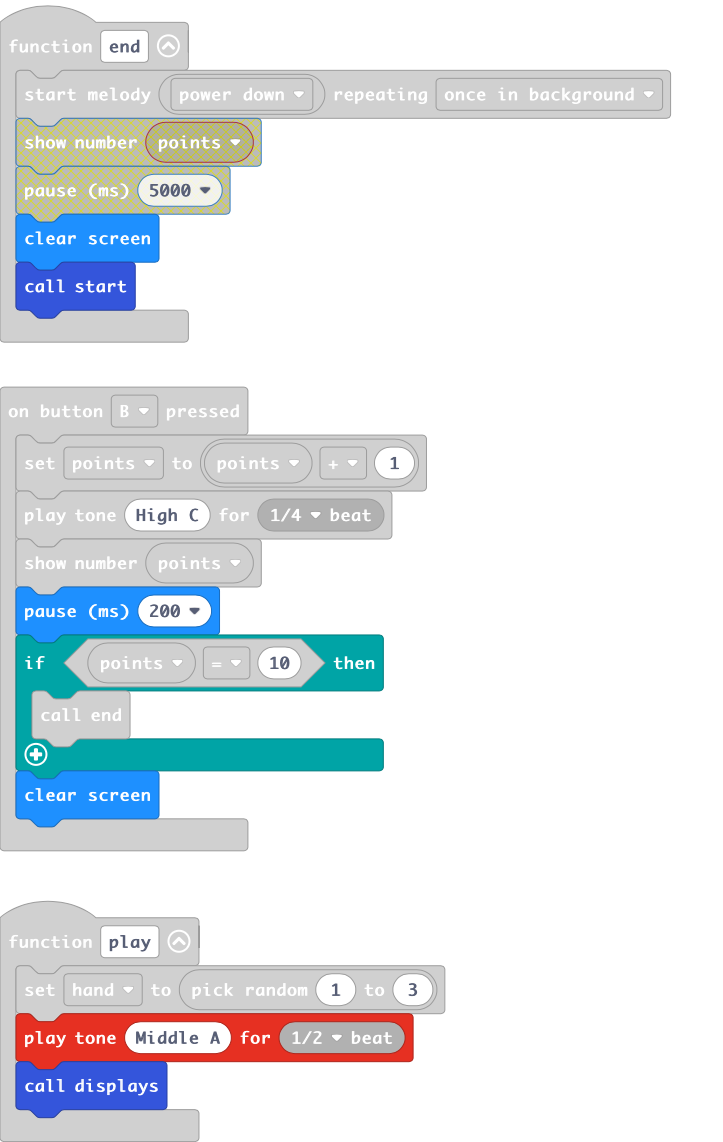
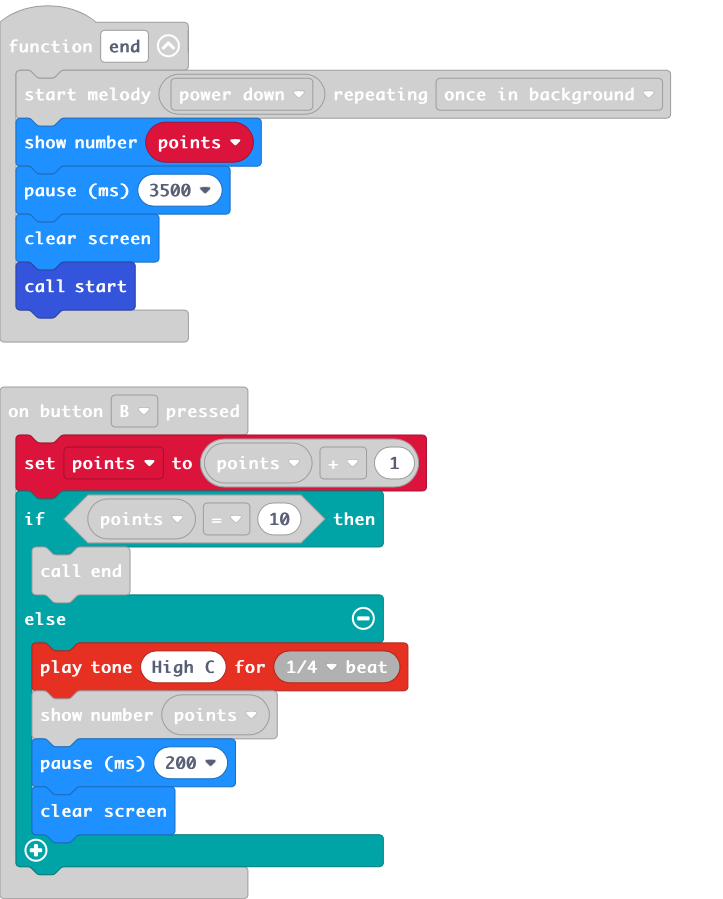
fix end function points display

diff --git a/main.ts b/main.ts
@@ -3,6 +3,8 @@ input.onButtonPressed(Button.A, function () {
 })
 function end () {
     music.startMelody(music.builtInMelody(Melodies.PowerDown), MelodyOptions.OnceInBackground)
+    basic.showNumber(points)
+    basic.pause(3500)
     basic.clearScreen()
     start()
 }
@@ -16,13 +18,14 @@ input.onButtonPressed(Button.AB, function () {
 })
 input.onButtonPressed(Button.B, function () {
     points = points + 1
-    music.playTone(523, music.beat(BeatFraction.Quarter))
-    basic.showNumber(points)
-    basic.pause(200)
     if (points == 10) {
         end()
+    } else {
+        music.playTone(523, music.beat(BeatFraction.Quarter))
+        basic.showNumber(points)
+        basic.pause(200)
+        basic.clearScreen()
     }
-    basic.clearScreen()
 })
 input.onGesture(Gesture.Shake, function () {
     play()
@@ -70,6 +73,6 @@ function displays () {
             `)
     }
 }
-let points = 0
 let hand = 0
+let points = 0
 start()
